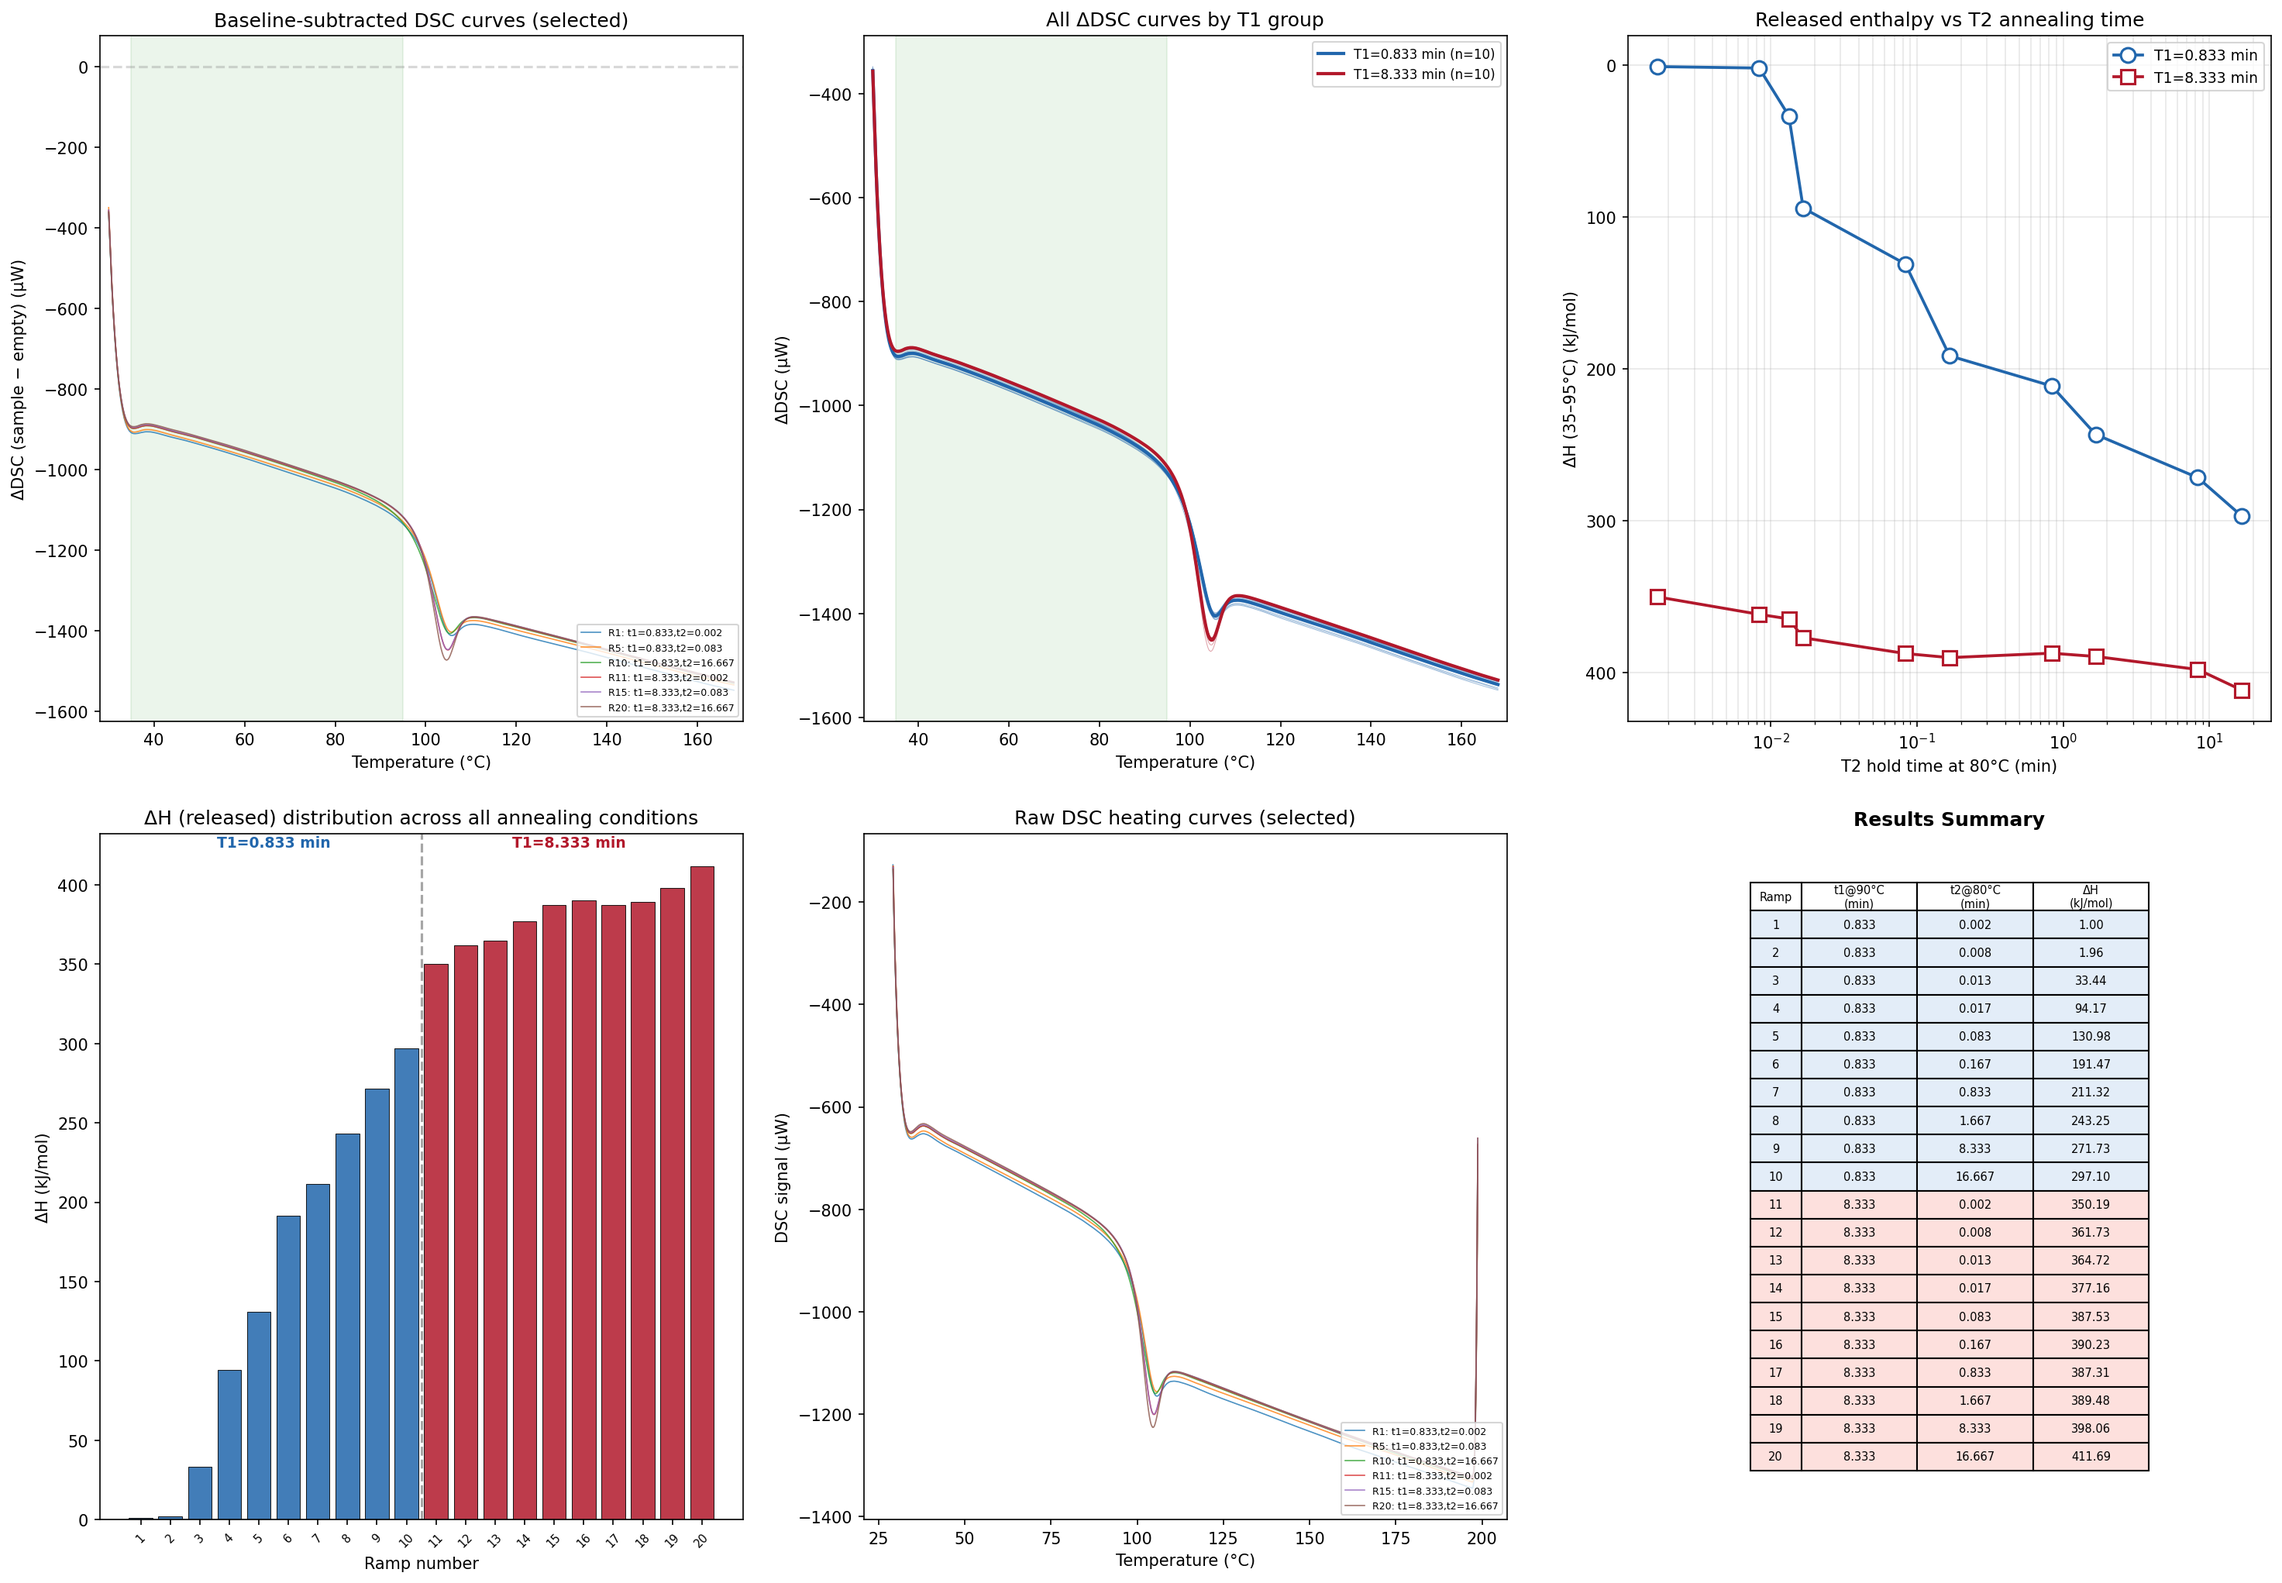
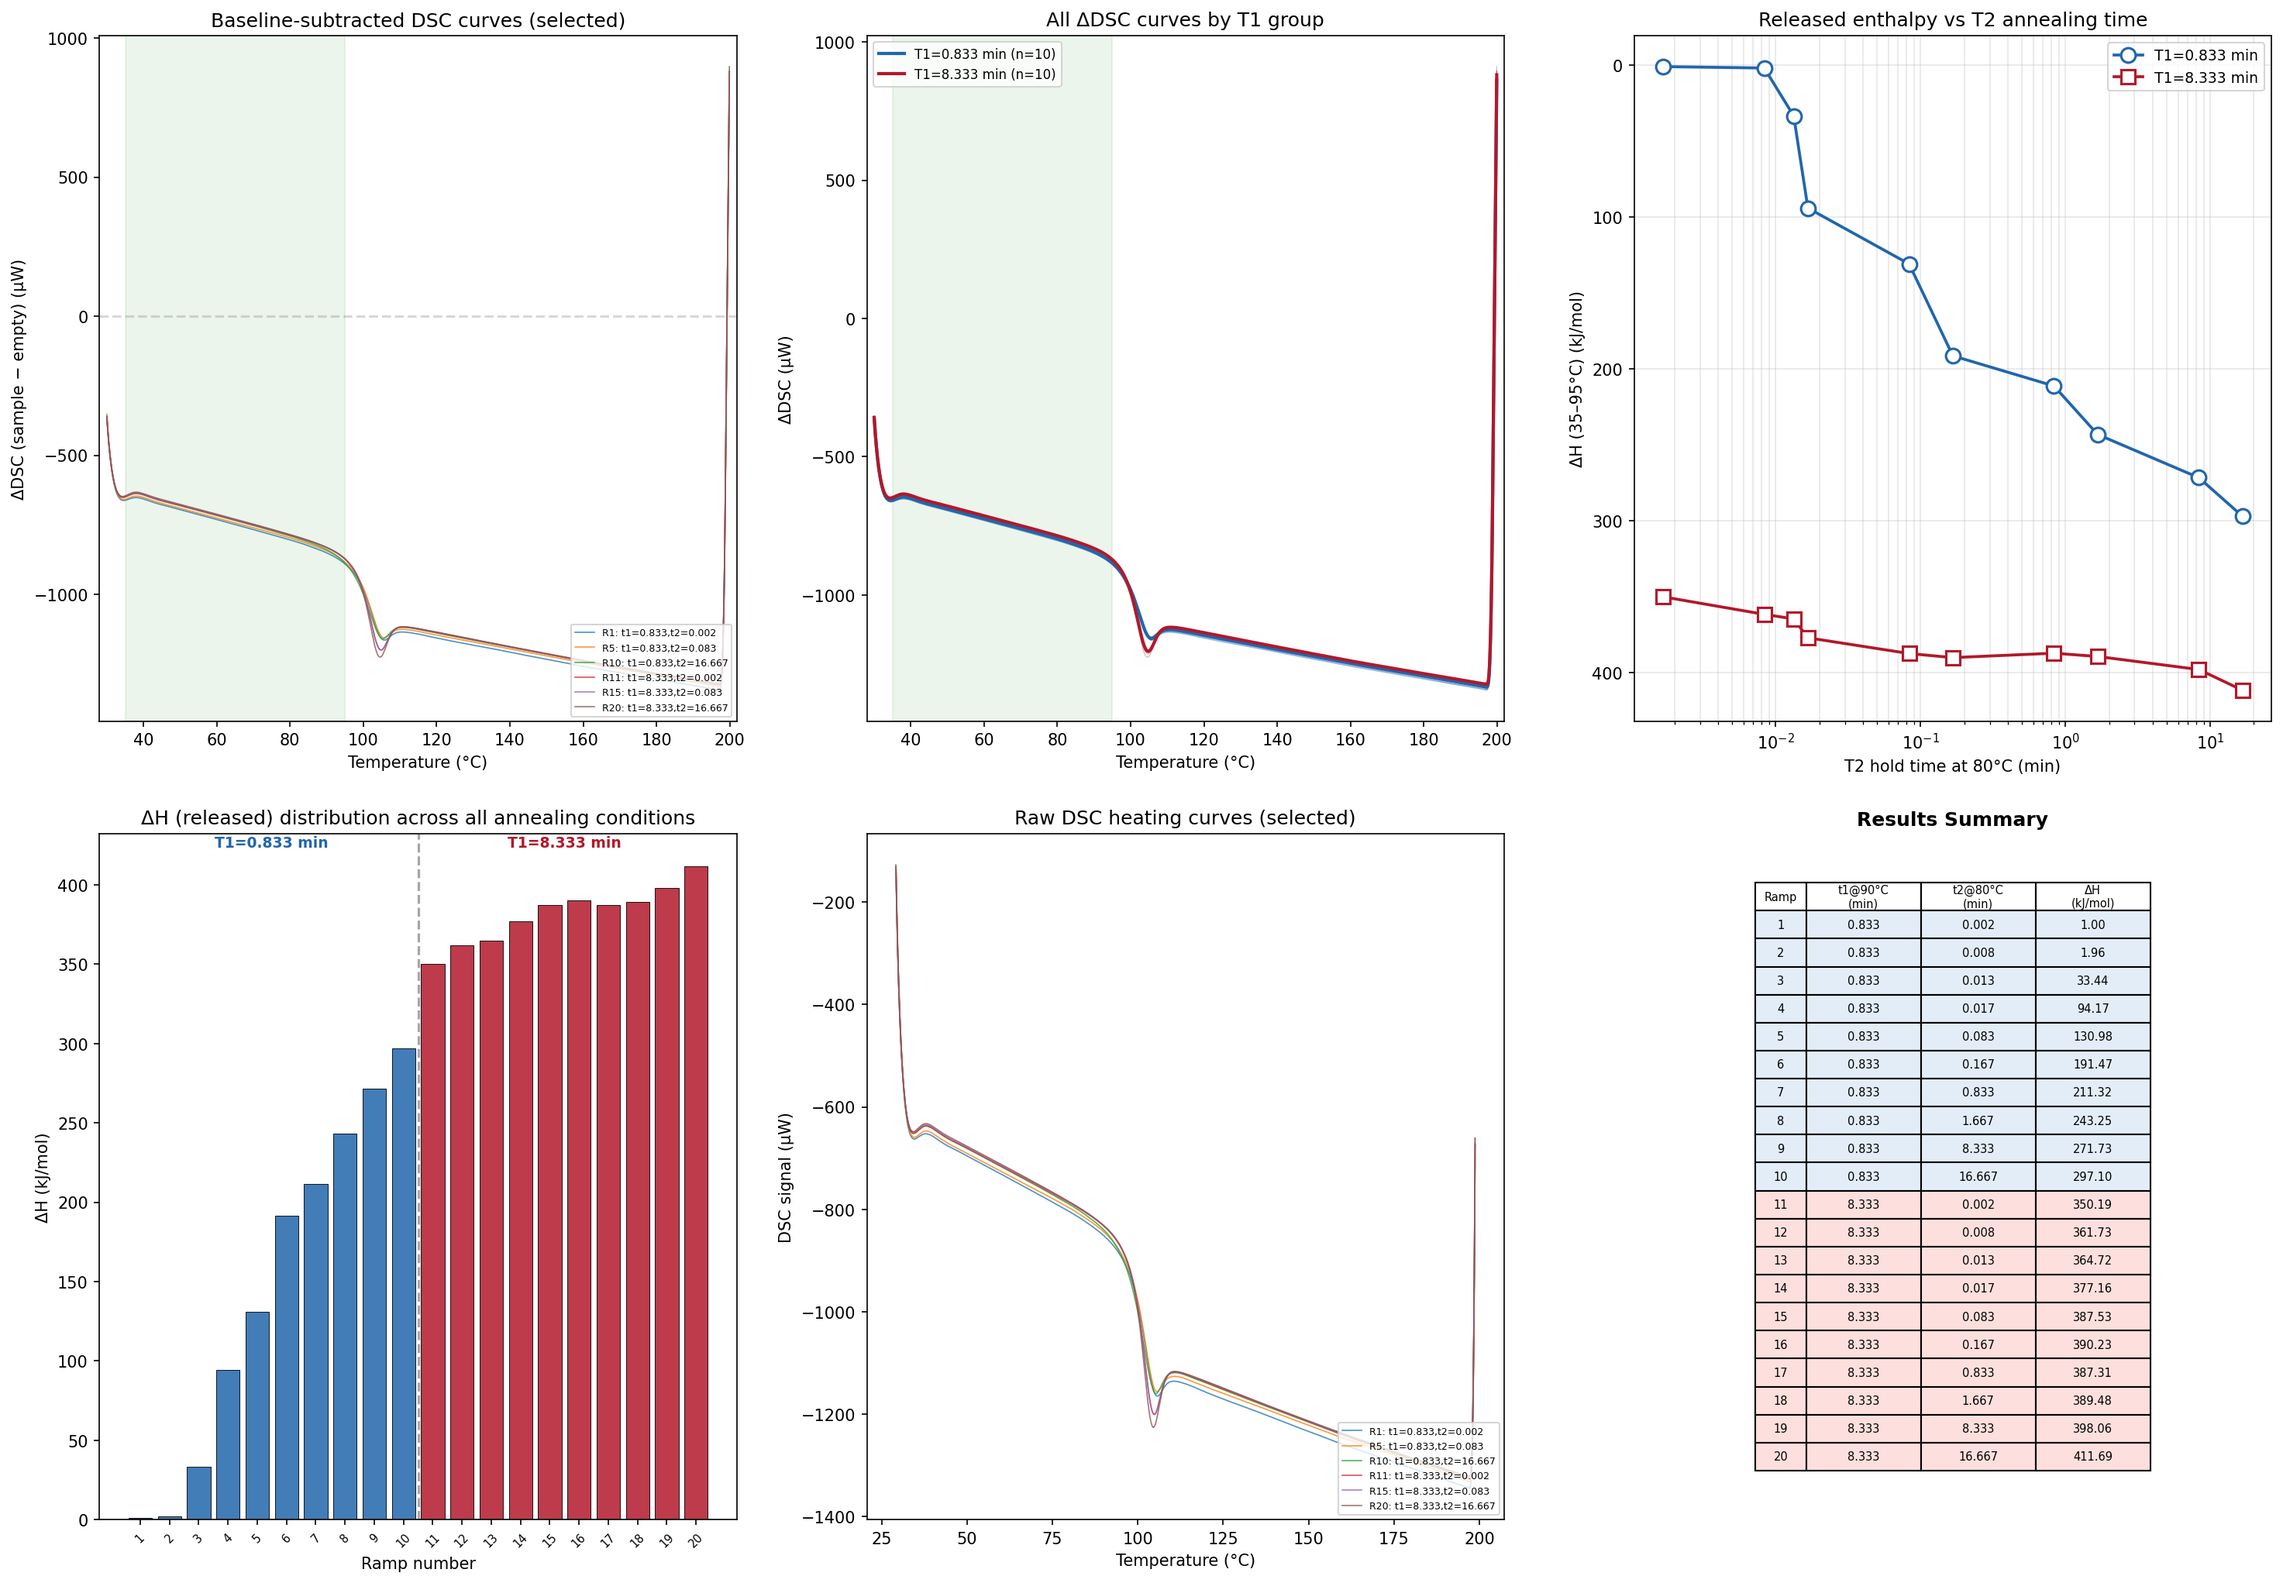
2026-05-12 16:52 - auto commit

diff --git a/src/process_twosteps.py b/src/process_twosteps.py
@@ -154,20 +154,11 @@ def main():
     print("  Two-step annealing DSC analysis — Direct heat-flow integration")
     print("=" * 70)
 
-    # ── 1. Load empty baseline ──────────────────────────────────────────
-    print("\n[1/4] Loading empty crucible baseline...")
-    empty = load_dsc_simple(os.path.join(DATA_DIR, 'ps-empty-01.xlsx'))
-    print(f"  Empty: {len(empty)} pts, T range {empty['Temp'].min():.1f}–{empty['Temp'].max():.1f} °C")
+    # ── 1. Setup integration grid ──────────────────────────────────────
 
-    # Interpolate empty DSC to a standard T grid for subtraction
-    T_empty_min = max(empty['Temp'].min(), 30.0)
-    T_empty_max = min(empty['Temp'].max(), 200.0)
-    T_grid = np.arange(np.ceil(T_empty_min), np.floor(T_empty_max) + 0.01, 0.1)
-    interp_empty = interp1d(empty['Temp'], empty['DSC'], kind='linear',
-                            bounds_error=False, fill_value='extrapolate')
-    DSC_empty_grid = interp_empty(T_grid)
-
-    print(f"  Baseline grid: {T_grid[0]:.0f}–{T_grid[-1]:.0f} °C ({len(T_grid)} pts)")
+    # T grid for integration (direct from sample DSC, no empty subtraction)
+    T_grid = np.arange(30.0, 200.0, 0.1)
+    print(f"  Integration grid: {T_grid[0]:.0f}–{T_grid[-1]:.0f} °C ({len(T_grid)} pts)")
 
     # ── 2. Load experiment data ──────────────────────────────────────────
     print("\n[2/4] Loading twosteps data and detecting heating ramps...")
@@ -228,12 +219,11 @@ def main():
         DSC_seg = DSC_exp[s:e+1]
         interp_dsc = interp1d(T_seg, DSC_seg, kind='linear',
                               bounds_error=False, fill_value='extrapolate')
-        DSC_sample_grid = interp_dsc(T_grid)
-        delta_DSC = DSC_sample_grid - DSC_empty_grid
+        DSC_grid = interp_dsc(T_grid)
         int_mask = (T_grid >= T_INT_LOW) & (T_grid <= T_INT_HIGH)
-        integral = trapezoid(delta_DSC[int_mask], T_grid[int_mask])  # µW·°C
+        integral = trapezoid(DSC_grid[int_mask], T_grid[int_mask])  # µW·°C
         raw_integrals.append(integral)
-        dsc_curves.append(delta_DSC)
+        dsc_curves.append(DSC_grid)
         print(f"    Ramp {ramp_idx+1:2d}: t1={cond['T1_hold_min']:8.4f} min, "
               f"t2={cond['T2_hold_min']:8.4f} min → "
               f"raw integral = {integral:.1f} µW·°C")
